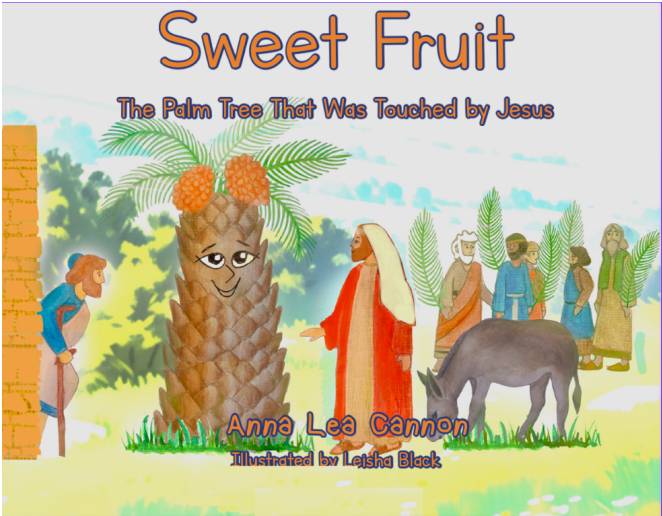
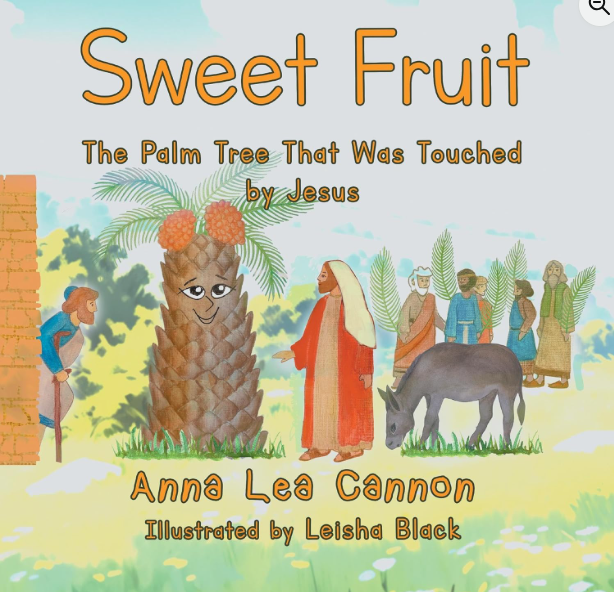
Fix book display: Copy properly sized images to books-detailed folder
- Copied new well-fitting book covers from books/ to books-detailed/
- Books page uses books-detailed/ folder for display
- All three book covers now properly sized and displayed
- Fixes image display issues on books page

diff --git a/src/app/books/page.tsx b/src/app/books/page.tsx
@@ -141,7 +141,7 @@ export default function BooksPage() {
               {/* Purchase Button */}
               <div className="pt-6">
                 <button 
-                  className="px-6 py-3 rounded-lg font-sans font-semibold text-white text-base transition-all duration-300 hover:transform hover:scale-105 hover:shadow-xl flex items-center justify-center gap-2"
+                  className="px-8 py-4 rounded-lg font-sans font-semibold text-white text-base transition-all duration-300 hover:transform hover:scale-105 hover:shadow-xl flex items-center justify-center gap-2"
                   style={{ 
                     backgroundColor: 'var(--sage-green)',
                     backgroundImage: 'linear-gradient(135deg, var(--sage-green) 0%, #5A6B47 100%)',
@@ -230,7 +230,7 @@ export default function BooksPage() {
               {/* Purchase Button */}
               <div className="pt-6">
                 <button 
-                  className="px-6 py-3 rounded-lg font-sans font-semibold text-white text-base transition-all duration-300 hover:transform hover:scale-105 hover:shadow-xl flex items-center justify-center gap-2"
+                  className="px-8 py-4 rounded-lg font-sans font-semibold text-white text-base transition-all duration-300 hover:transform hover:scale-105 hover:shadow-xl flex items-center justify-center gap-2"
                   style={{ 
                     backgroundColor: 'var(--sage-green)',
                     backgroundImage: 'linear-gradient(135deg, var(--sage-green) 0%, #5A6B47 100%)',
@@ -359,7 +359,7 @@ export default function BooksPage() {
               {/* Purchase Button */}
               <div className="pt-6">
                 <button 
-                  className="px-6 py-3 rounded-lg font-sans font-semibold text-white text-base transition-all duration-300 hover:transform hover:scale-105 hover:shadow-xl flex items-center justify-center gap-2"
+                  className="px-8 py-4 rounded-lg font-sans font-semibold text-white text-base transition-all duration-300 hover:transform hover:scale-105 hover:shadow-xl flex items-center justify-center gap-2"
                   style={{ 
                     backgroundColor: 'var(--sage-green)',
                     backgroundImage: 'linear-gradient(135deg, var(--sage-green) 0%, #5A6B47 100%)',
